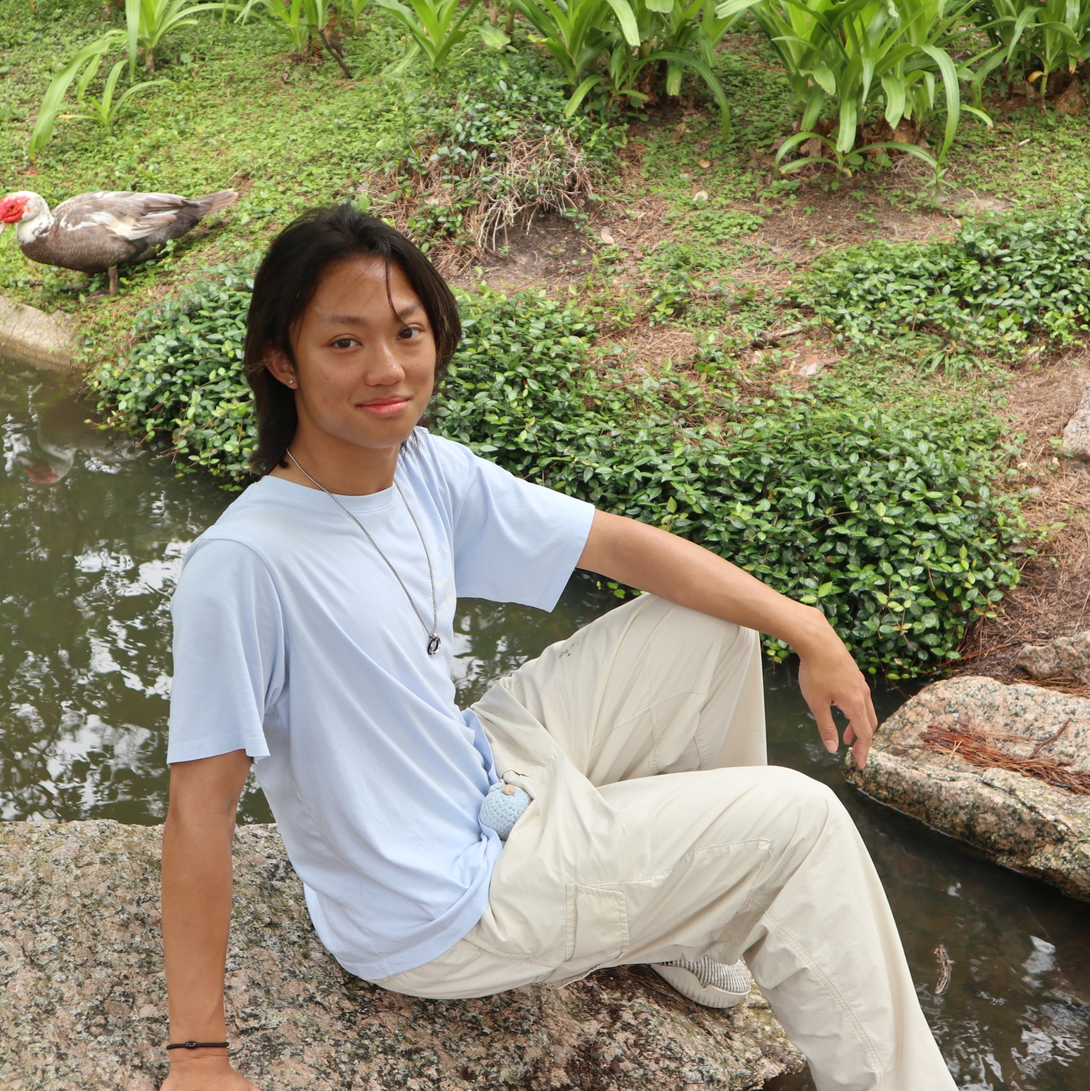
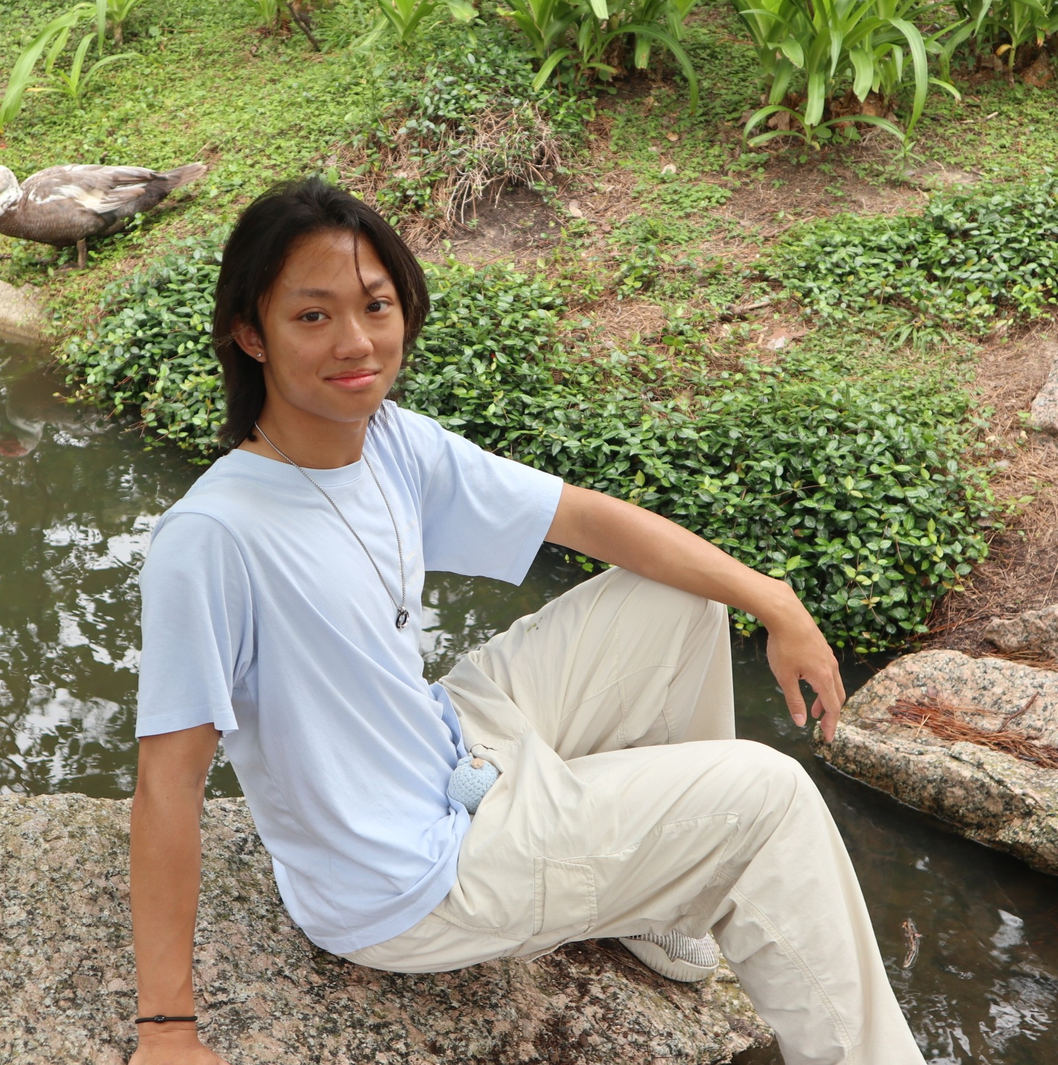
Update app nav page + bug fix
Fixed the bug from previous commit. Also updated app nav pages to use 2026-2027 content instead of 2025-2026 (gm) also updated slides content page to include new gm time and first informational

diff --git a/src/app/(nav-pages)/gm/page.tsx b/src/app/(nav-pages)/gm/page.tsx
@@ -1,5 +1,5 @@
 import SlideCard from "@/app/(nav-pages)/gm/components/SlideCard";
-import { GMSlideshowList } from "@/content/2025-2026/slides"; //UPDATE_HERE: change to 2026-2027 when that's created
+import { GMSlideshowList } from "@/content/2026-2027/slides"; //UPDATE_HERE: change to 2026-2027 when that's created
 
 import { Metadata } from "next";
 import Link from "next/link";
@@ -8,7 +8,7 @@ const GMPage = () => {
     return (
         <div className='flex flex-col items-center gap-5 sm:gap-10 md:gap-10 mx-7 md:mx-10 md:pb-10'>
             <h2 className='container text-center font-secondary tracking-wide text-xl sm:text-3xl lg:text-4xl/12 mt-5 md:mt-15'>
-                Come join us at our General Meeting <b>every other Thursday</b> in <b>PSYC 338</b> from <b>7-8 PM</b>! 
+                Come join us at our General Meeting <b>every other Thursday</b> in <b>PSYC 108</b> from <b>7-8 PM</b>! 
                 Check out the calendar on <Link href='/events' className="underline hover:text-primary transition-colors">Events</Link> for more accurate dates!
             </h2>
             {GMSlideshowList.toReversed().map((album) => (

diff --git a/src/content/2026-2027/slides.ts b/src/content/2026-2027/slides.ts
@@ -8,10 +8,10 @@ export const GMSlideshowList: GMSlideshow[] = [
     
     {
         title: "Informational!",
-        baseUrl: "https://docs.google.com/presentation/d/e/2PACX-1vQXI_ySEMMJ-6236kV-ZDf_qTaGVS_fcOM3VSErrSCNrFCeVz1Z8MghALy6EQo7ecOM84qbdly7dH1l/",
-        years: "2025-2026",
+        baseUrl: "https://docs.google.com/presentation/d/e/2PACX-1vShrmCbnQjSIAYG87JgxgZ4cxspyFN9cEQwjmaR3jGaIzZoYGTgx_wMZX4s1ChnttVj5U8Xyhxp363-/",
+        years: "2026-2027",
         slug: "informational",
-        date: "8/28/2025",
+        date: "8/27/2026",
     },
     
 ];

diff --git a/src/app/(nav-pages)/page.tsx b/src/app/(nav-pages)/page.tsx
@@ -1,5 +1,5 @@
 import HomeCard from "@/app/(nav-pages)/home/components/HomeCard";
-import { JiatingList } from "@/content/2025-2026/jiatings";
+import { JiatingList } from "@/content/2026-2027/jiatings";
 
 import { Metadata } from "next";
 
@@ -16,6 +16,6 @@ export default function Home() {
 }
 
 export const metadata: Metadata = {
-  title: "TAMU CSA | 2025-2026",
+  title: "TAMU CSA | 2026-2027",
   description: "The official website of the Chinese Student Association at Texas A&M University!",
 };

diff --git a/src/app/(other)/jiatings/[jtId]/parents/[imageId]/page.tsx b/src/app/(other)/jiatings/[jtId]/parents/[imageId]/page.tsx
@@ -1,6 +1,6 @@
 import ParentFullImage from "@/app/(other)/jiatings/components/ParentFullImage";
-import { MegateamList } from "@/content/2025-2026/megateam";
-import { JiatingList } from "@/content/2025-2026/jiatings";
+import { MegateamList } from "@/content/2026-2027/megateam";
+import { JiatingList } from "@/content/2025-2026/jiatings"; //TO DO: CHANGE TO 2026-27 when thats created
 import NotFound from "@/app/not-found"
 
 import { Metadata } from "next";

diff --git a/src/app/(nav-pages)/photos/page.tsx b/src/app/(nav-pages)/photos/page.tsx
@@ -15,7 +15,7 @@ const PhotosPage = () => {
           {/* Button list of photo albums */}
           <main className="w-full max-w-5xl flex flex-col md:flex-row gap-8 mb-10 md:mb-16">
             <YearAlbumSection
-              year="2025-2026"
+              year="2025-2026" //TO DO update to 2026-2027 when that's created
               thisYear={true}
               albumList={AlbumList2025_26}
               className="flex-1"

diff --git a/src/app/(nav-pages)/nihowdy/page.tsx b/src/app/(nav-pages)/nihowdy/page.tsx
@@ -1,6 +1,6 @@
 import LinkButton from "@/app/ui/LinkButton";
 import SchoolCard from "@/app/(nav-pages)/nihowdy/components/SchoolCard";
-import { nihowdySchools2026 } from "@/content/2025-2026/nihowdy";
+import { nihowdySchools2026 } from "@/content/2025-2026/nihowdy"; //UPDATE WHEN 2026-2027 is created TO DO
 
 import { Metadata } from "next";
 import Image from "next/image";

diff --git a/src/app/(nav-pages)/sports/page.tsx b/src/app/(nav-pages)/sports/page.tsx
@@ -1,6 +1,6 @@
 import SportsPageComponent from "@/app/(nav-pages)/sports/components/SportsPageComponent";
 import { getJTOMedals } from "@/lib/medals.server";
-import { JiatingList } from "@/content/2025-2026/jiatings";
+import { JiatingList } from "@/content/2025-2026/jiatings"; //TO DO update to 2026-2027 when that's created
 
 import { Metadata } from "next";
 

diff --git a/src/app/(other)/officers/[imageId]/page.tsx b/src/app/(other)/officers/[imageId]/page.tsx
@@ -1,5 +1,5 @@
 import OfficerFullImage from "@/app/(nav-pages)/officers/components/OfficerFullImage";
-import { OfficerList } from "@/content/2025-2026/officers";
+import { OfficerList } from "@/content/2026-2027/officers";
 
 import { Metadata } from "next";
 import NotFound from "@/app/not-found"

diff --git a/src/app/(nav-pages)/layout.tsx b/src/app/(nav-pages)/layout.tsx
@@ -19,7 +19,7 @@ const akshar = Akshar({
 });
 
 export const metadata: Metadata = {
-  title: "TAMU CSA | 2025-2026",
+  title: "TAMU CSA | 2026-2027",
   description: "The official website of the Chinese Student Association at Texas A&M University!",
 };
 

diff --git a/src/app/(other)/layout.tsx b/src/app/(other)/layout.tsx
@@ -16,7 +16,7 @@ const akshar = Akshar({
 });
 
 export const metadata: Metadata = {
-  title: "TAMU CSA | 2025-2026",
+  title: "TAMU CSA | 2026-2027",
   description: "The official website of the Chinese Student Association at Texas A&M University!",
 };
 

diff --git a/src/app/layout.tsx b/src/app/layout.tsx
@@ -18,7 +18,7 @@ const akshar = Akshar({
 });
 
 export const metadata: Metadata = {
-  title: "TAMU CSA | 2025-2026",
+  title: "TAMU CSA | 2026-2027",
   description: "The official website of the Chinese Student Association at Texas A&M University!",
 };
 
